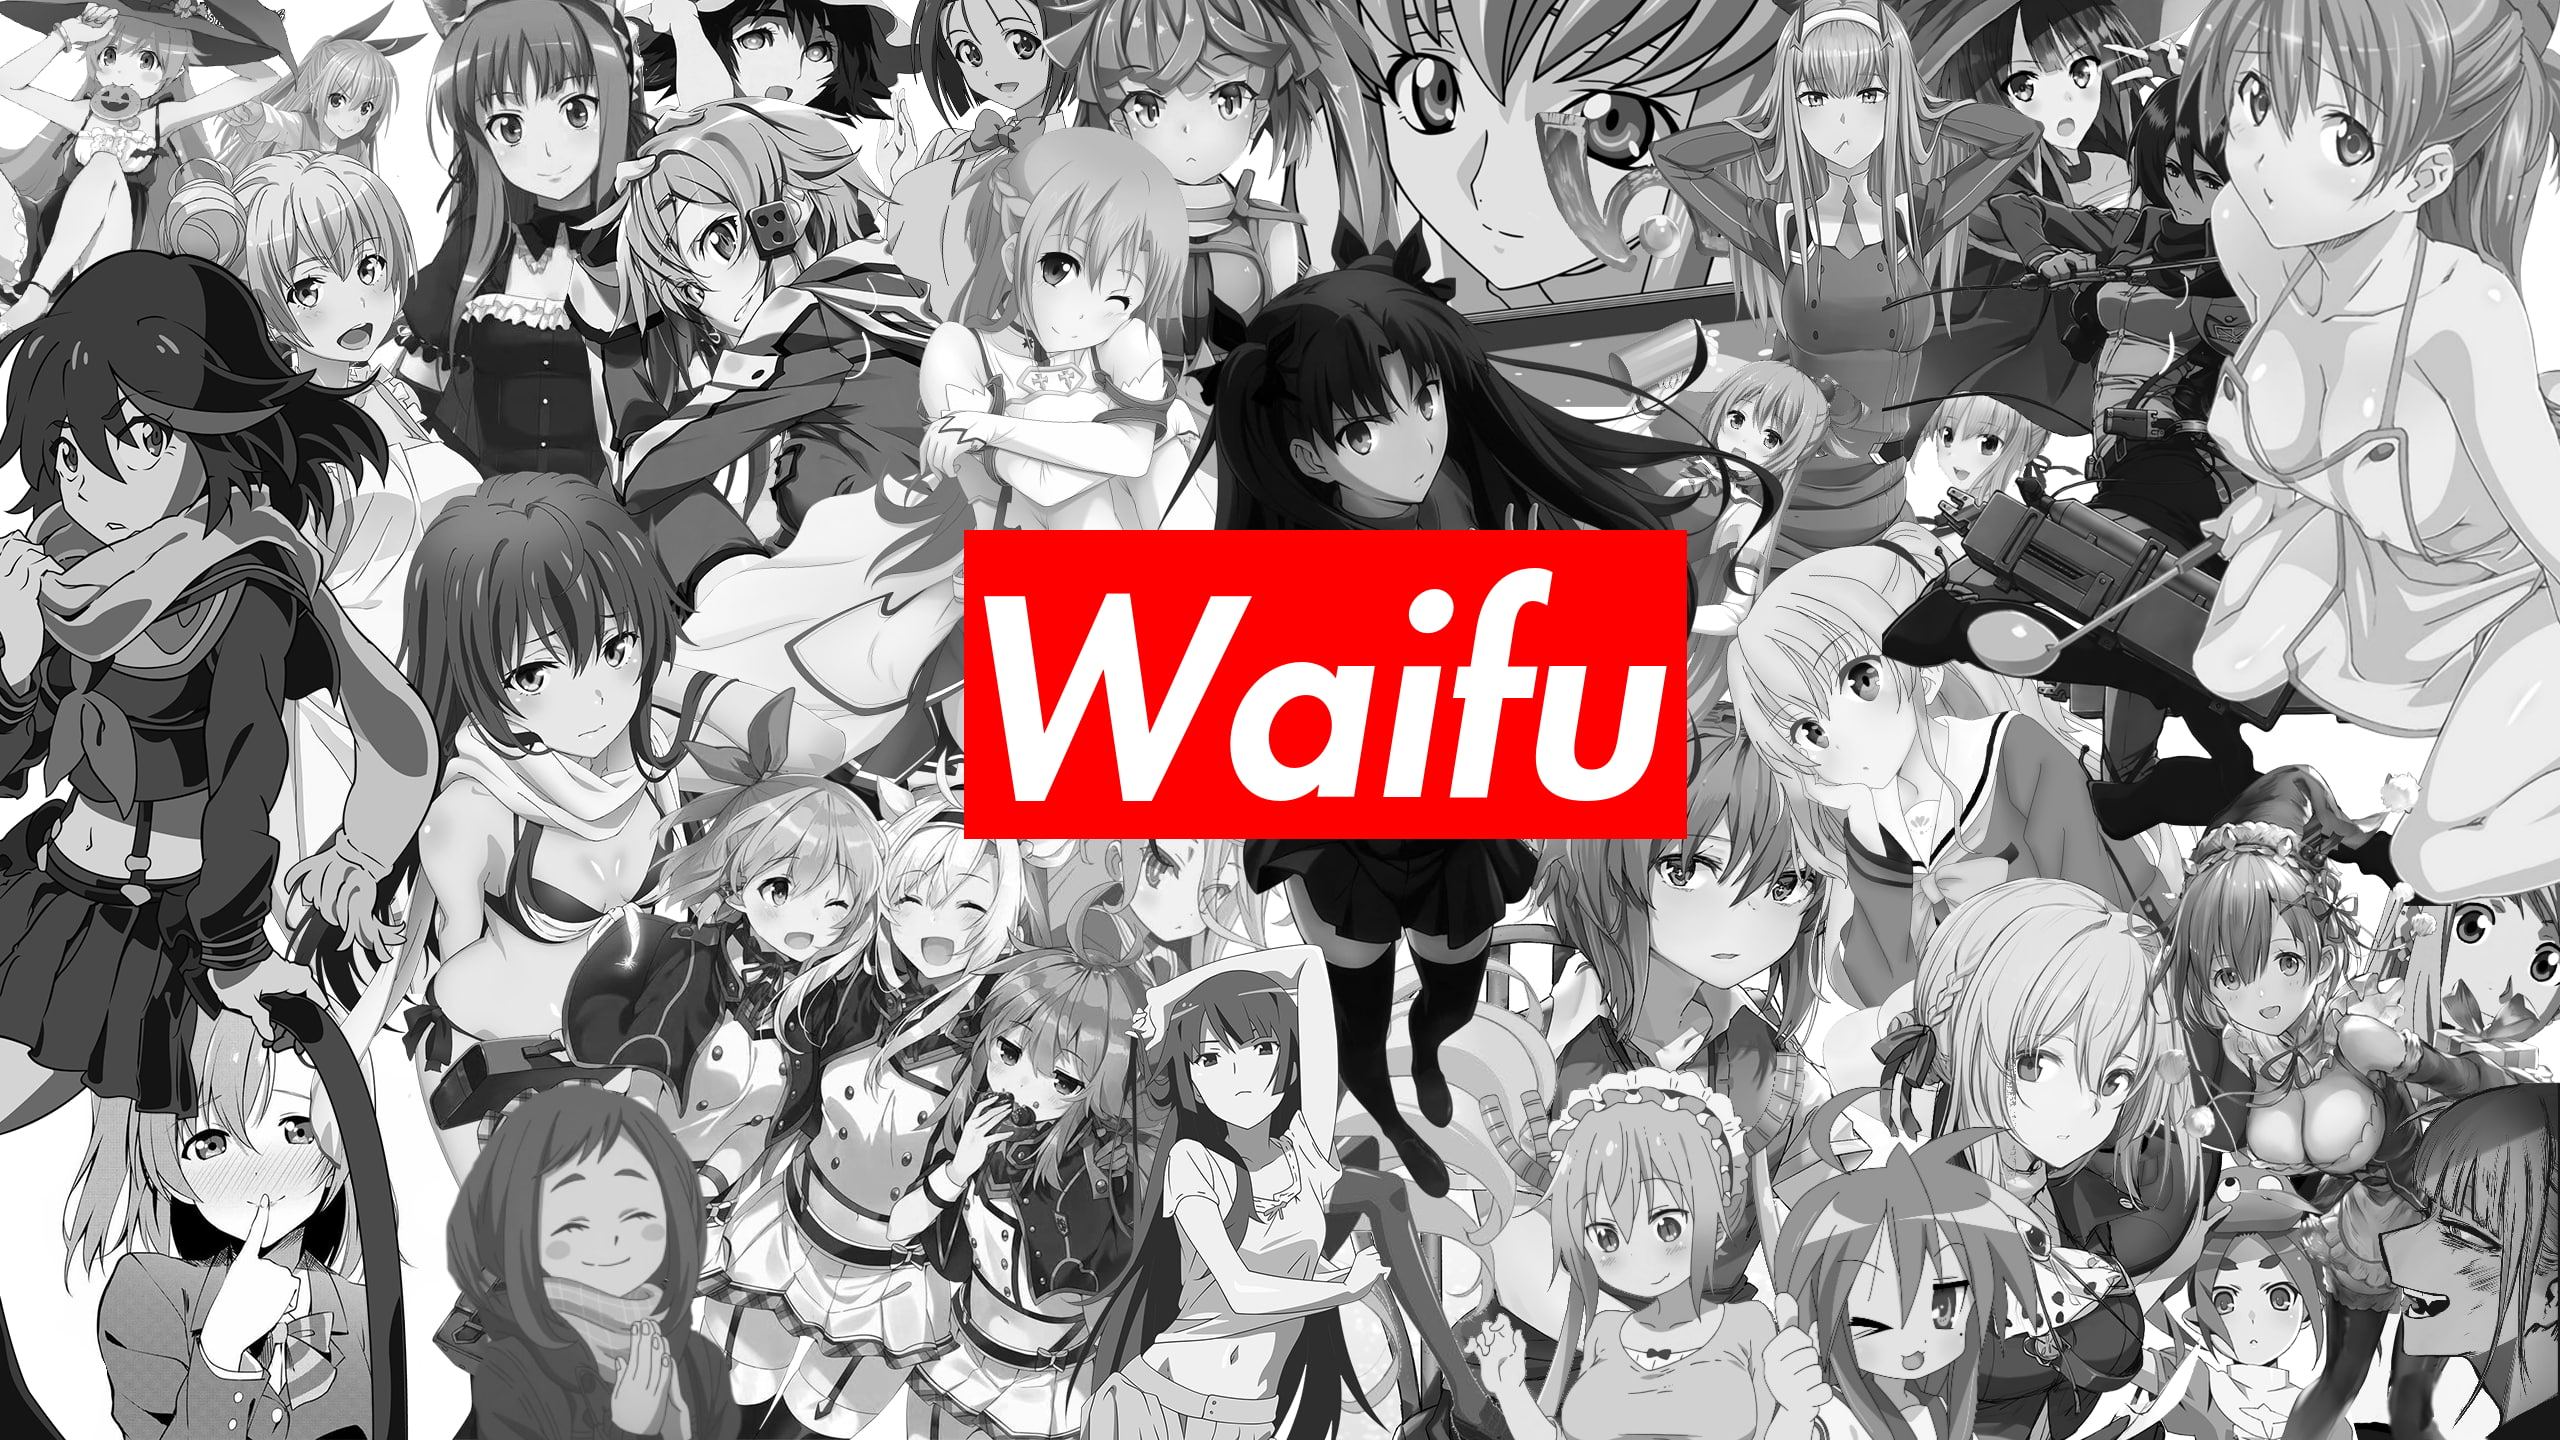
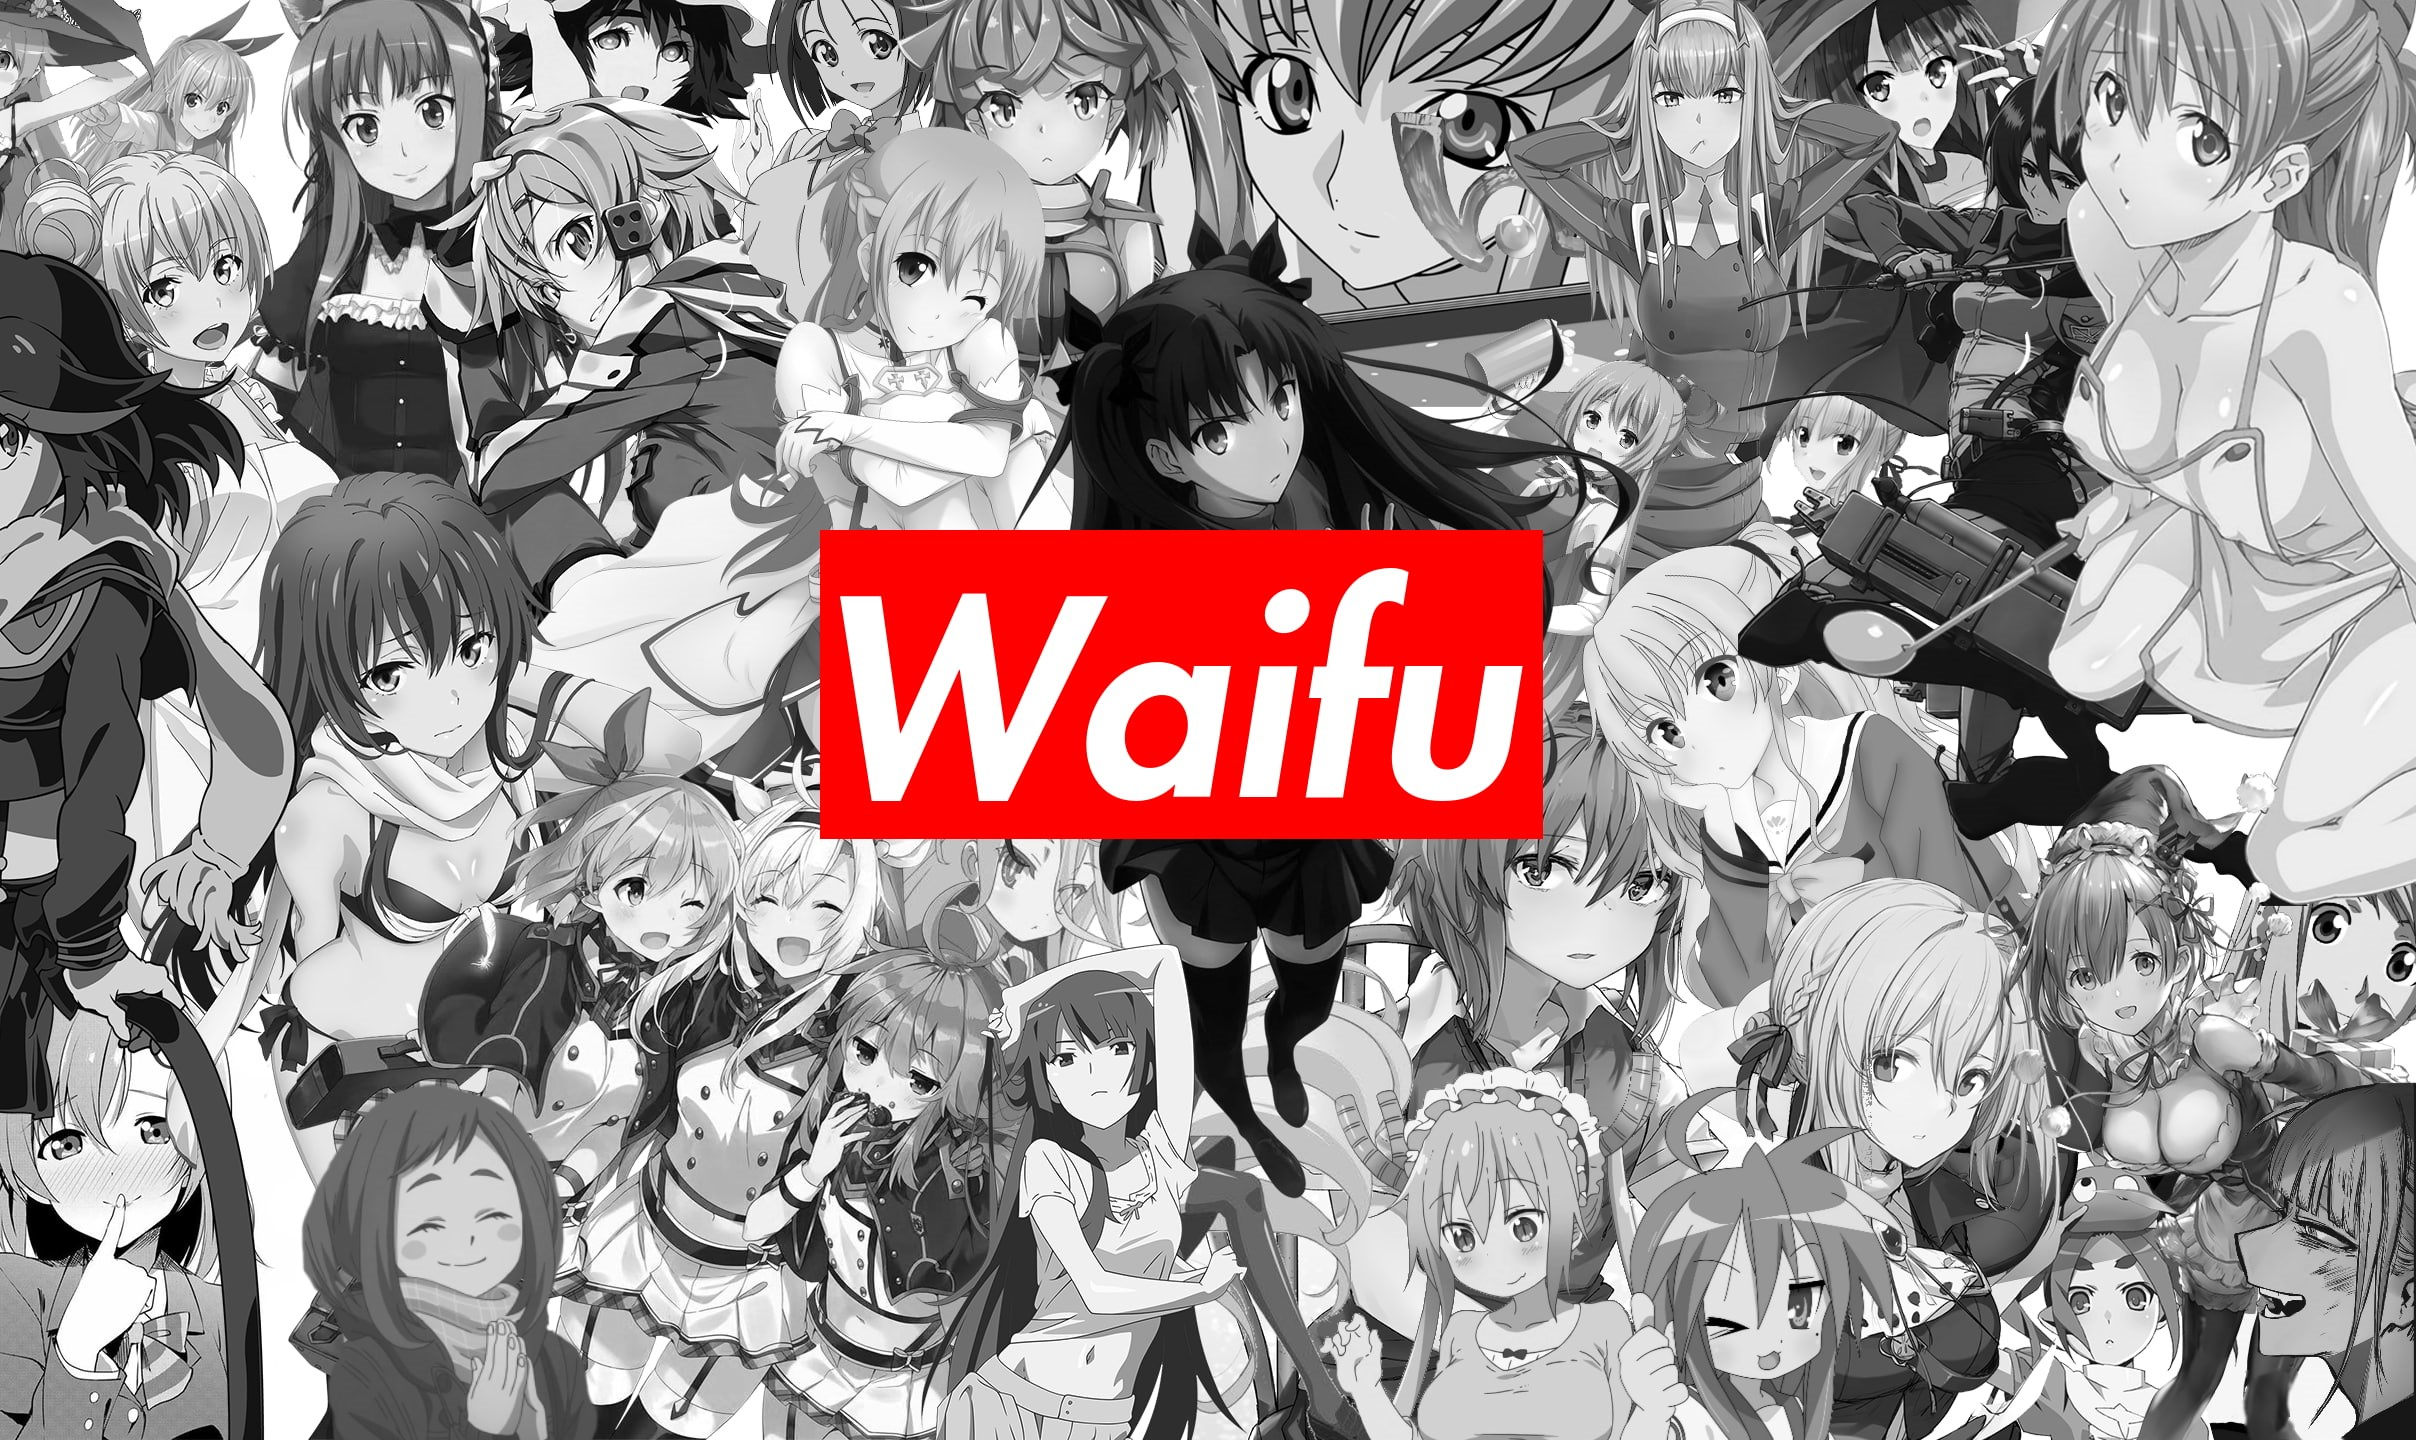
updates

diff --git a/src/App.jsx b/src/App.jsx
@@ -23,7 +23,7 @@ function App() {
         {/* Picture Section */}
 
         <div className='flex-1 flex w-full justify-center items-center flex-col '>
-          <div className=' h-128 w-96  rounded-2xl shadow-xl backdrop-blur-md outline-cyan-500'></div>
+          <div className=' h-128 w-128  rounded-2xl shadow-xl backdrop-blur-md outline-cyan-500'></div>
           
 
         </div>

diff --git a/src/App.css b/src/App.css
@@ -90,7 +90,7 @@
 }
 
 #back{
-    background-image: url(538963.jpg);
+    background-image: url(wallpaperflare.com_wallpaper.jpg);
     background-size: cover;
 }
   
